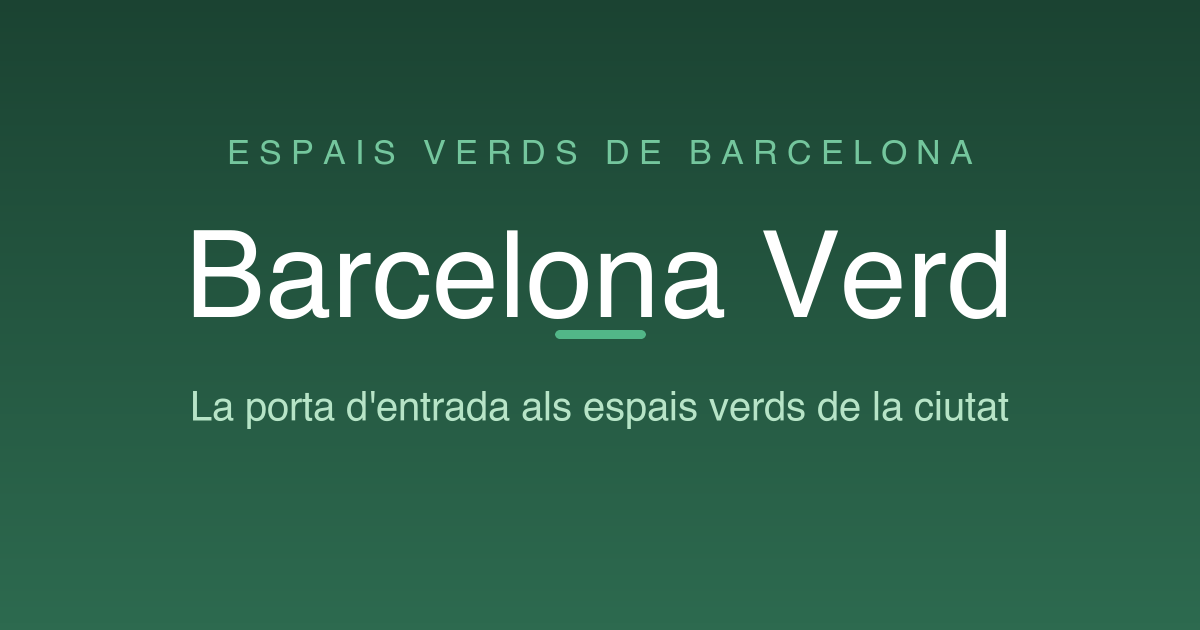
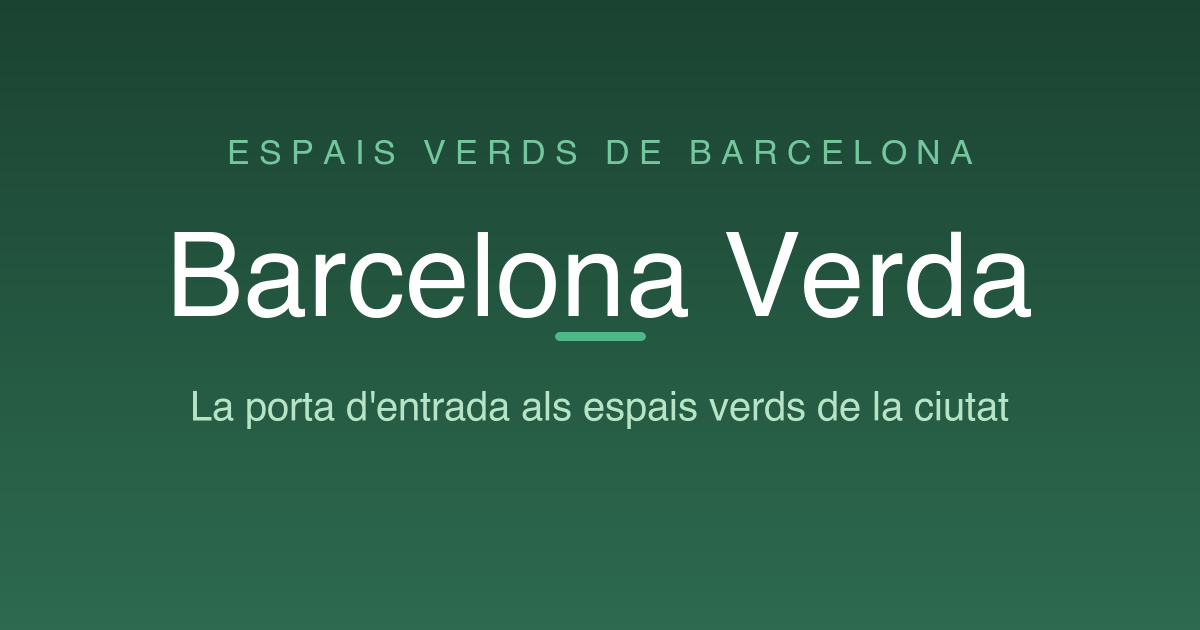
refactor: rename brand to "Barcelona Verda" (Catalan gender agreement)

Changed region(s): [[0.1233, 0.3619, 0.8633, 0.5429]]

diff --git a/app/pages/participar.vue b/app/pages/participar.vue
@@ -4,7 +4,7 @@
 
     <header class="page-header">
       <h1>Com pots participar?</h1>
-      <p>El projecte Barcelona Verd connecta veïns, voluntaris i la ciutat per crear espais verds junts. Aquí trobaràs totes les formes de participació i els programes oficials, en un sol lloc.</p>
+      <p>El projecte Barcelona Verda connecta veïns, voluntaris i la ciutat per crear espais verds junts. Aquí trobaràs totes les formes de participació i els programes oficials, en un sol lloc.</p>
       <p>Siguis voluntari/ària, mediador/a o ciutadà/ana actiu/va, hi ha un rol per a tothom.</p>
     </header>
 
@@ -85,7 +85,7 @@ const roles = [
     icon: 'heart',
     title: 'Voluntari/ària',
     color: '#e2725b',
-    description: 'Acompanyes veïns que volen participar però no saben per on començar, ajudant-los a connectar amb Barcelona Verd i amb els programes oficials.',
+    description: 'Acompanyes veïns que volen participar però no saben per on començar, ajudant-los a connectar amb Barcelona Verda i amb els programes oficials.',
     actions: [
       'Integres els nouvinguts a la plataforma',
       'Proveeixes de material els punts d\'informació i formes els mediadors/ores de la xarxa',
@@ -138,7 +138,7 @@ const officialPrograms = [
 const steps = [
   { title: 'Explora', text: 'Obre el mapa interactiu i descobreix els espais verds, horts i arbres del teu barri — sense necessitat de compte.' },
   { title: 'Tria com participar', text: 'Vols ser voluntari, mediador de xarxa o accedir directament a un programa oficial de l\'Ajuntament?' },
-  { title: 'Registra\'t o accedeix', text: 'Crea el teu compte a Barcelona Verd per als rols de la plataforma, o accedeix al programa oficial que t\'interessa.' },
+  { title: 'Registra\'t o accedeix', text: 'Crea el teu compte a Barcelona Verda per als rols de la plataforma, o accedeix al programa oficial que t\'interessa.' },
   { title: 'Fes créixer la xarxa', text: 'La teva participació és visible al mapa i inspira altres veïns dels 73 barris de Barcelona.' },
 ]
 </script>

diff --git a/app/pages/sobre.vue b/app/pages/sobre.vue
@@ -7,9 +7,9 @@
       <div class="about-inner">
         <div class="about-text">
           <span class="about-badge">Projecte acadèmic · EuroTeQ 2026</span>
-          <h2>Sobre Barcelona Verd</h2>
+          <h2>Sobre Barcelona Verda</h2>
           <p>
-            Barcelona Verd és una plataforma ciutadana per implicar els residents en la cocreació i el manteniment dels espais verds urbans de Barcelona.
+            Barcelona Verda és una plataforma ciutadana per implicar els residents en la cocreació i el manteniment dels espais verds urbans de Barcelona.
           </p>
           <p>
             El projecte neix d'una recerca acadèmica sobre la bretxa de participació en les iniciatives de verd urbà: les polítiques existents sovint no arriben als grups més vulnerables, i els canals digitals actuals de l'Ajuntament no estan pensats per a la inclusió activa. Barcelona compta amb més de 250.000 arbres i programes de participació consolidats, però no disposa de cap eina digital unificada que els connecti entre si i amb la ciutadania.

diff --git a/app/app.vue b/app/app.vue
@@ -9,7 +9,7 @@
 const url = useRequestURL()
 const ogImage = `${url.origin}/og-image.png`
 
-const title = "Barcelona Verd · Espais verds de Barcelona"
+const title = "Barcelona Verda · Espais verds de Barcelona"
 const description = "La porta d'entrada als espais verds de Barcelona: descobreix parcs, horts, jardins i programes oficials en un sol mapa interactiu."
 
 // Social link previews (WhatsApp, Telegram, X, etc.)
@@ -17,14 +17,14 @@ useSeoMeta({
   title,
   description,
   ogType: 'website',
-  ogSiteName: 'Barcelona Verd',
+  ogSiteName: 'Barcelona Verda',
   ogTitle: title,
   ogDescription: description,
   ogUrl: url.href,
   ogImage: ogImage,
   ogImageWidth: 1200,
   ogImageHeight: 630,
-  ogImageAlt: 'Barcelona Verd',
+  ogImageAlt: 'Barcelona Verda',
   ogLocale: 'ca_ES',
   twitterCard: 'summary_large_image',
   twitterTitle: title,

diff --git a/app/components/AppFooter.vue b/app/components/AppFooter.vue
@@ -3,7 +3,7 @@
     <div class="footer-inner">
       <div class="footer-brand">
         <span class="footer-logo">
-          <AppIcon name="leaf" :size="16" /> Barcelona Verd
+          <AppIcon name="leaf" :size="16" /> Barcelona Verda
         </span>
         <p>Una plataforma ciutadana per als espais verds urbans de Barcelona.</p>
         <p class="footer-academic">Projecte acadèmic · Sustainable Smart Cities · EuroTeQ 2026</p>
@@ -29,7 +29,7 @@
     </div>
 
     <div class="footer-bottom">
-      <span>© 2026 Barcelona Verd</span>
+      <span>© 2026 Barcelona Verda</span>
       <span class="footer-sep">·</span>
       <span>Jacob Stark · Marta Alfonso · Mehdike Ruveyda · Micaelle Nogueira</span>
     </div>

diff --git a/app/pages/index.vue b/app/pages/index.vue
@@ -66,7 +66,7 @@
         <div v-if="welcomeVisible && viewMode !== 'list'" class="hero-overlay">
           <button class="hero-close" @click="welcomeVisible = false" aria-label="Tancar">×</button>
           <div class="hero-badge">
-            <AppIcon name="leaf" :size="13" /> Barcelona Verd
+            <AppIcon name="leaf" :size="13" /> Barcelona Verda
           </div>
           <h1 class="hero-title">La porta d'entrada als espais verds de Barcelona</h1>
           <p class="hero-desc">Descobreix parcs, horts, jardins i programes oficials: tot en un sol mapa interactiu.</p>

diff --git a/app/error.vue b/app/error.vue
@@ -35,7 +35,7 @@ const description = computed(() =>
     : "Hi ha hagut un error inesperat. Torna a l'inici i continua explorant.",
 )
 
-useHead({ title: `${is404.value ? '404' : 'Error'} · Barcelona Verd` })
+useHead({ title: `${is404.value ? '404' : 'Error'} · Barcelona Verda` })
 
 const goHome = () => clearError({ redirect: '/' })
 </script>

diff --git a/app/components/NavBar.vue b/app/components/NavBar.vue
@@ -2,7 +2,7 @@
   <nav class="navbar" :class="{ floating }">
     <NuxtLink to="/" class="navbar-brand">
       <AppIcon name="leaf" :size="20" class="leaf-icon" />
-      <span class="brand-name">Barcelona Verd</span>
+      <span class="brand-name">Barcelona Verda</span>
     </NuxtLink>
 
     <div v-if="stats" class="navbar-stats">

diff --git a/app/pages/login.vue b/app/pages/login.vue
@@ -5,7 +5,7 @@
 
       <div class="auth-logo">
         <AppIcon name="leaf" :size="22" class="logo-icon" />
-        Barcelona Verd
+        Barcelona Verda
       </div>
 
       <div class="auth-tabs">

diff --git a/docs/notas-funcionalidades.md b/docs/notas-funcionalidades.md
@@ -1,4 +1,4 @@
-# Notas de funcionalidades — Barcelona Verd
+# Notas de funcionalidades — Barcelona Verda
 
 Notas técnicas de funcionalidades discutidas mas ainda não implementadas. Cada seção descreve a estrutura por trás de uma ideia, para referência futura.
 
@@ -16,7 +16,7 @@ Notas técnicas de funcionalidades discutidas mas ainda não implementadas. Cada
 **Correção importante (2026-06-24):** a disponibilidade de um escocell (tem padrinho ou não) vem do site oficial da cidade, não é algo que o nosso sistema gera. Ou seja, não há autocandidatura dentro da plataforma — quem aplica, aplica no site oficial. Isso elimina a necessidade da função `claim_escocell()` da primeira versão desta nota: não existe "reivindicar" um escocell pela nossa plataforma, só *mostrar* o status (curado manualmente, já que a cidade não tem API) e linkar pra fora.
 
 **Mudanças de schema propostas (versão simplificada):**
-1. Renomear `trees.ambassador_id` → `trees.padri_id` (mesma FK para `profiles`) — continua útil para guardar quem é o padrinho/madrinha *quando essa pessoa também usa a Barcelona Verd* (visibilidade/foto/histórico voluntários da comunidade), mas não é o que determina disponibilidade.
+1. Renomear `trees.ambassador_id` → `trees.padri_id` (mesma FK para `profiles`) — continua útil para guardar quem é o padrinho/madrinha *quando essa pessoa também usa a Barcelona Verda* (visibilidade/foto/histórico voluntários da comunidade), mas não é o que determina disponibilidade.
 2. Adicionar `trees.is_available` (boolean, default `false`) — atualizado manualmente por mediadores/admins com base no que veem no site oficial. É a fonte de verdade pro badge "Disponible" no mapa, não um cálculo derivado de `padri_since`.
 3. `trees.padri_since` (`timestamptz`, nullable) segue como campo opcional/comunitário — "há quanto tempo essa pessoa cuida", preenchido por quem já é o padrinho oficial e quer aparecer no mapa.
 4. Nova tabela `tree_care_logs` (`id, tree_id → trees, profile_id → profiles, note, photo_url, created_at`) segue igual — histórico de cuidado, alimentado por quem já é padrinho, não tem relação com a disponibilidade.
